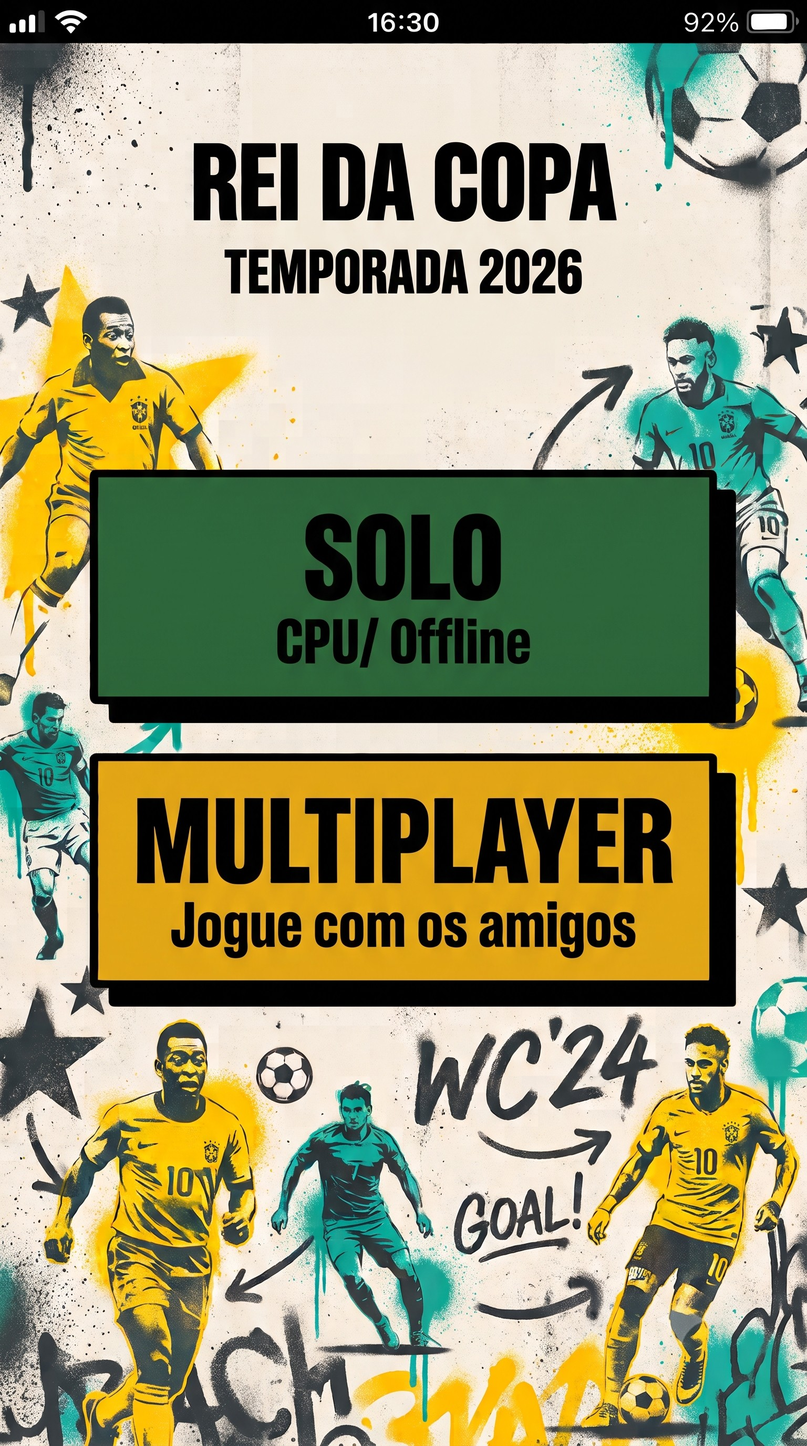
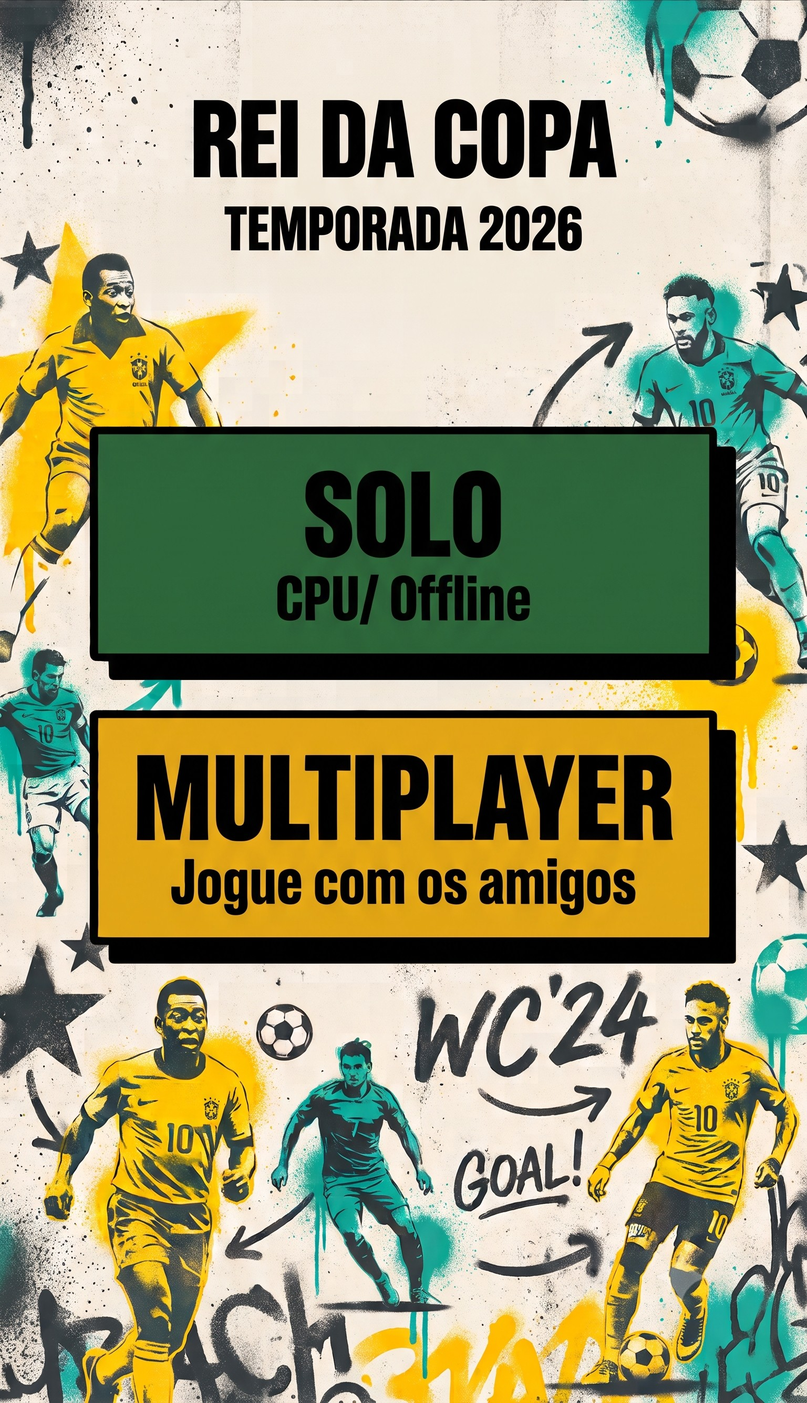
Home: remove phone status bar from poster

diff --git a/index.html b/index.html
@@ -326,16 +326,16 @@
 
     .home-hotspot.is-solo {
       left: 10.6%;
-      top: 32.4%;
+      top: 30.3%;
       width: 79.1%;
-      height: 17.6%;
+      height: 18.1%;
     }
 
     .home-hotspot.is-multi {
       left: 10.6%;
-      top: 52.6%;
+      top: 51.1%;
       width: 79.1%;
-      height: 17.5%;
+      height: 18%;
     }
 
     .home-hotspot:focus-visible {

diff --git a/CLAUDE_HANDOFF.md b/CLAUDE_HANDOFF.md
@@ -1,6 +1,6 @@
 # Rei da Copa - Handoff para Claude Code
 
-Ultima atualizacao: 2026-07-05. NO AR em https://pedrofsleone.github.io/rei-da-copa/ (deploy automatico via git push; ver secao DEPLOY). Ja entregue e deployado antes deste ajuste: Home (Contra CPU / Multiplayer), lobby de torneio configuravel, DRAFT POR TURNOS ao vivo com cartas Bloqueio/Troca e layout de ABAS estilo 7a0 (item 3j), e FASE D.1 = transmissao progressiva sincronizada do torneio (host controla, sem spoiler, campeao so no fim; item 4b). Ajuste local mais recente: pagina inicial voltou a ser apenas uma tela, com poster mobile estilo arte/grafite enviado pelo Pedro, usando `assets/home-poster.jpg` e botoes invisiveis por cima das caixas SOLO/MULTIPLAYER (ver Fase A). Base: 16 selecoes com regua propria (RATING_GUIDE.md), 8 formacoes iguais as do 7a0, penaltis na hora. FALTA validar com 2 humanos reais (2 celulares) o draft+transmissao ao vivo; depois: modo Interativo, regras definitivas do Firebase (~2026-08-02), expandir base (COVERAGE_TARGETS.md). Detalhes: roadmap no fim do arquivo (itens numerados ate 3j/4b).
+Ultima atualizacao: 2026-07-05. NO AR em https://pedrofsleone.github.io/rei-da-copa/ (deploy automatico via git push; ver secao DEPLOY). Ja entregue e deployado antes deste ajuste: Home (Contra CPU / Multiplayer), lobby de torneio configuravel, DRAFT POR TURNOS ao vivo com cartas Bloqueio/Troca e layout de ABAS estilo 7a0 (item 3j), e FASE D.1 = transmissao progressiva sincronizada do torneio (host controla, sem spoiler, campeao so no fim; item 4b). Ajuste local mais recente: pagina inicial voltou a ser apenas uma tela, com poster mobile estilo arte/grafite enviado pelo Pedro, usando `assets/home-poster.jpg` recortado sem a barra preta superior de status do celular, e botoes invisiveis por cima das caixas SOLO/MULTIPLAYER (ver Fase A). Base: 16 selecoes com regua propria (RATING_GUIDE.md), 8 formacoes iguais as do 7a0, penaltis na hora. FALTA validar com 2 humanos reais (2 celulares) o draft+transmissao ao vivo; depois: modo Interativo, regras definitivas do Firebase (~2026-08-02), expandir base (COVERAGE_TARGETS.md). Detalhes: roadmap no fim do arquivo (itens numerados ate 3j/4b).
 
 Este arquivo existe para outro agente continuar o projeto sem perder contexto. Manter atualizado a cada decisao, teste visual, implementacao ou mudanca de rumo.
 
@@ -336,7 +336,7 @@ Feito nesta sessao:
 - **Penaltis escolhidos na hora** da disputa.
 - Multiplayer **Fase 0** (Firebase) e **Fase 1** (lobby online por codigo, hoje 1x1) feitas e validadas.
 - **Fase A (Home)** feita e validada originalmente: tela inicial `homeView` (screen `home`, agora e a tela de abertura) com opcoes **Contra CPU** (-> draft solo) e **Multiplayer** (-> multiHome). Botao `← Inicio` no draft; back do multiHome volta pra home. Barra de acao e pills escondidas fora de draft/match (via regra CSS `[hidden]{display:none!important}` pra o atributo hidden funcionar em flex/grid). Navegacao, solo e multiplayer intactos, sem erro de console.
-- **Ajuste Fase A - Home poster mobile (2026-07-05)**: Pedro pediu para retornar e deixar apenas a tela inicial. Estado atual: uma unica tela `homeView` com o poster branco/grunge/grafite, titulo "REI DA COPA", "TEMPORADA 2026", botao verde **SOLO CPU/Offline** e botao amarelo **MULTIPLAYER Jogue com os amigos**. Implementacao local em `index.html`: `body.is-home-screen` esconde a topbar apenas na home; `homeView` contem uma unica `.home-poster.is-home`; os botoes SOLO/MULTIPLAYER mantem IDs originais `homeCpuBtn` e `openMultiBtn` como hotspots transparentes. Asset local usado: `assets/home-poster.jpg`. A galeria vertical com posters de draft/tutorial foi revertida; `assets/draft-poster.jpg` e `assets/tutorial-poster.jpg` foram removidos.
+- **Ajuste Fase A - Home poster mobile (2026-07-05)**: Pedro pediu para retornar e deixar apenas a tela inicial. Estado atual: uma unica tela `homeView` com o poster branco/grunge/grafite, titulo "REI DA COPA", "TEMPORADA 2026", botao verde **SOLO CPU/Offline** e botao amarelo **MULTIPLAYER Jogue com os amigos**. Implementacao local em `index.html`: `body.is-home-screen` esconde a topbar apenas na home; `homeView` contem uma unica `.home-poster.is-home`; os botoes SOLO/MULTIPLAYER mantem IDs originais `homeCpuBtn` e `openMultiBtn` como hotspots transparentes. Asset local usado: `assets/home-poster.jpg`, recortado em 2026-07-05 para remover a barra preta superior da imagem (sinal/hora/bateria); hotspots reajustados para a nova altura da arte. A galeria vertical com posters de draft/tutorial foi revertida; `assets/draft-poster.jpg` e `assets/tutorial-poster.jpg` foram removidos.
 
 DEPLOY (Fase H CONCLUIDA): repo GitHub **https://github.com/pedrofsleone/rei-da-copa** (usuario `pedrofsleone`), publicado via **GitHub Pages** em **https://pedrofsleone.github.io/rei-da-copa/** (no ar, mobile-friendly). IMPORTANTE: tem um arquivo **`.nojekyll`** na raiz — sem ele o build do Pages FALHA (Jekyll se engasga com o HTML/JS); nao remover. Deploy de novas versoes: so `git add/commit/push` na pasta `C:\Users\pedro\Desktop\Rei-da-Copa` que o Pages reconstroi sozinho em ~1min. Git config: repo local com `safe.directory` marcada (a pasta pertence a outro SID no Windows), identidade Pedro Leone/gmail, remote `origin` = o repo acima, credencial via Git Credential Manager (helper `manager`, ja logado). `gh` CLI NAO instalado.
 
